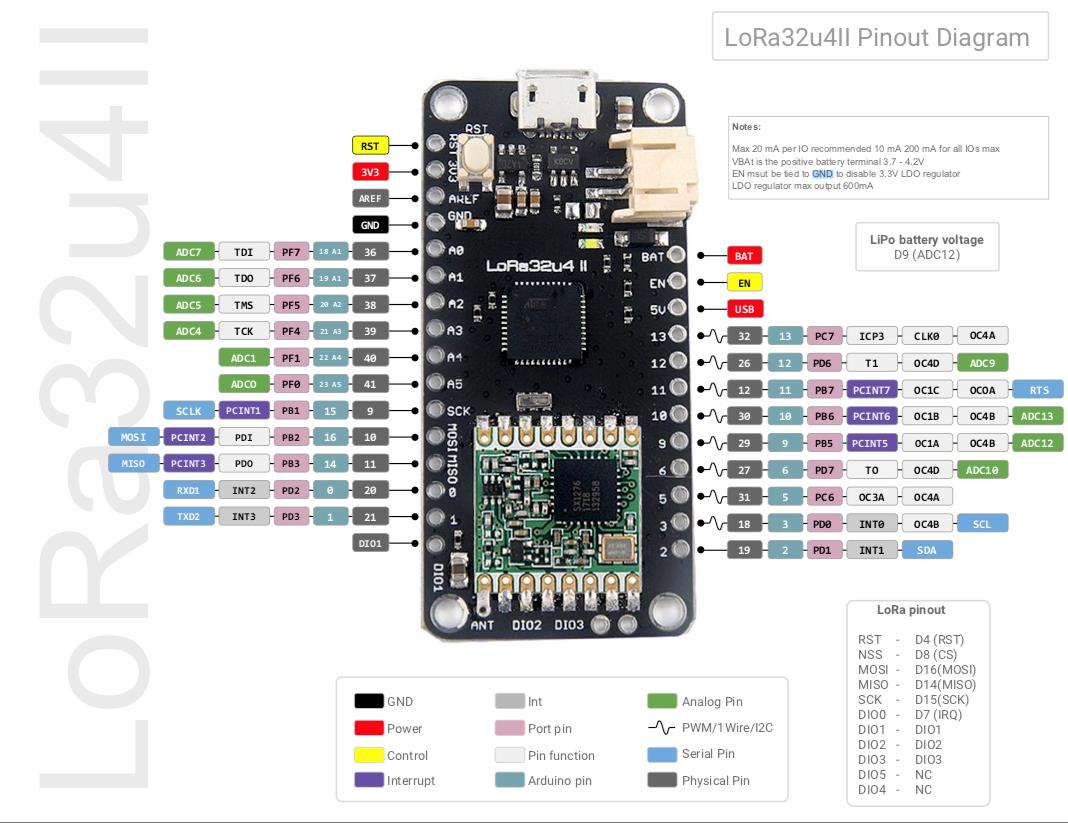
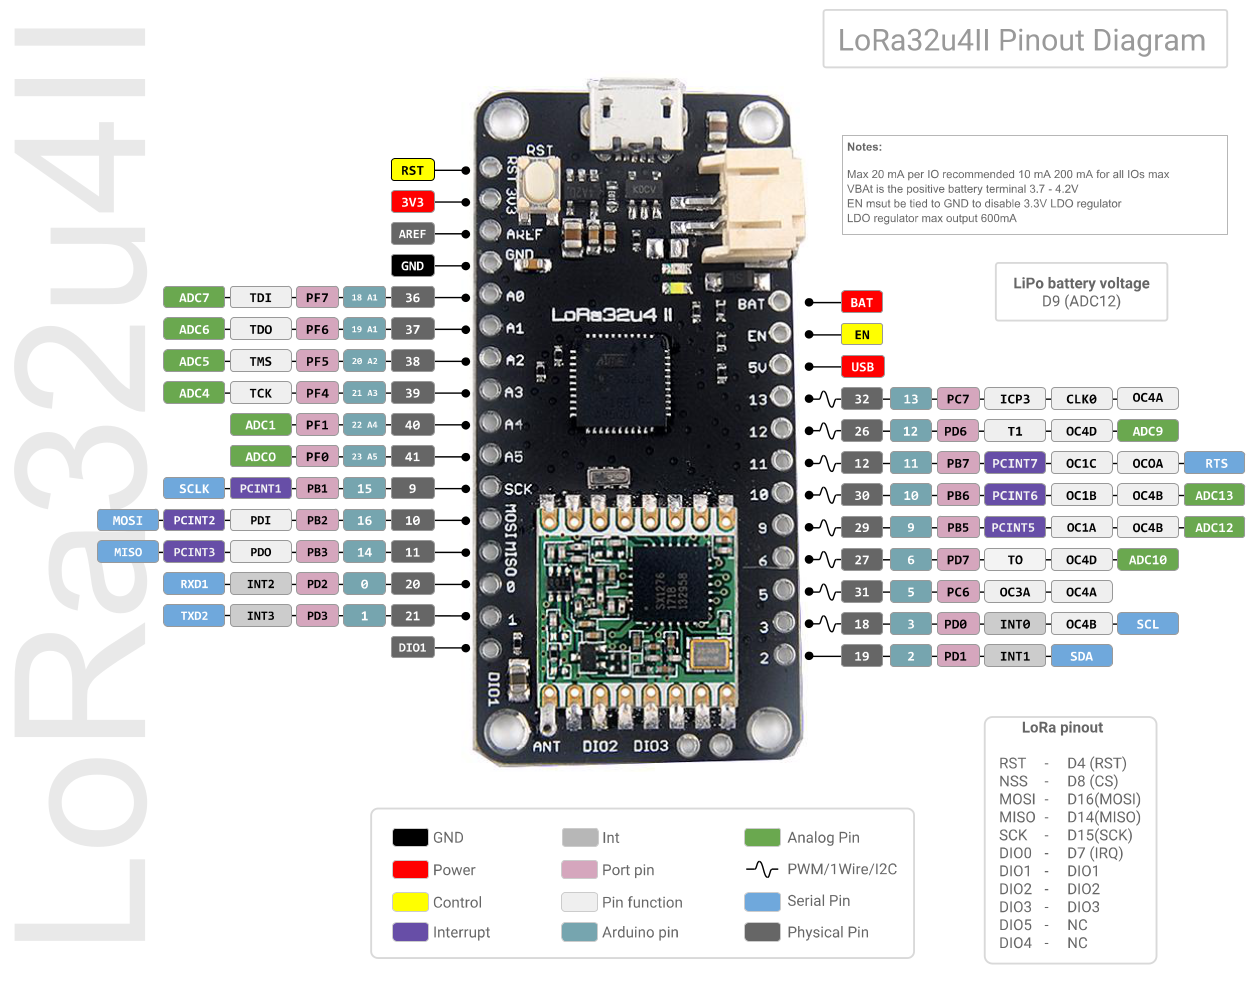
Update picture with higher res version and add some small changes in the code

diff --git a/Project/report/report.tex b/Project/report/report.tex
@@ -104,6 +104,7 @@ When there are no tasks active, the system goes into the \textit{vApplicationIdl
 Here we turn off the ADC (Analog to Digital Converter),
 put the LoRa module in sleep mode and the microcontroller (MCU) in Idle mode.
 This leads to a power consumption of $\sim \SI{2.90}{\milli\ampere}$.
+Remember that the usb interface is also turned off.
 We leave the low-power operation mode as soon as the \textit{LoRaReceiver} task gets active again.
 
 \subsection{Ultra low-power mode}
